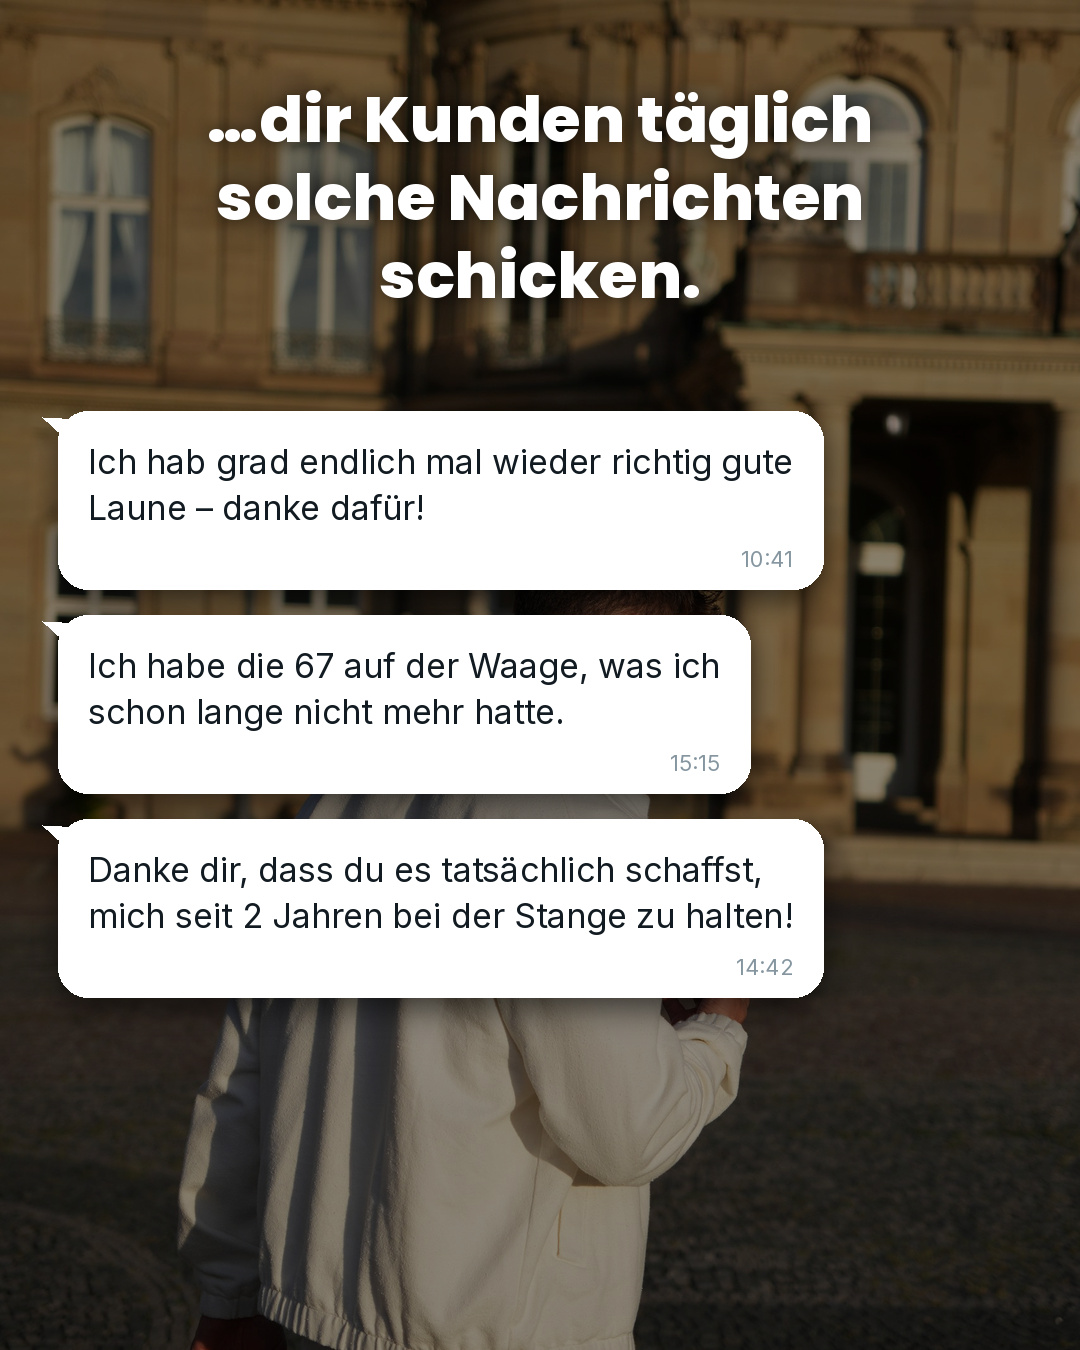
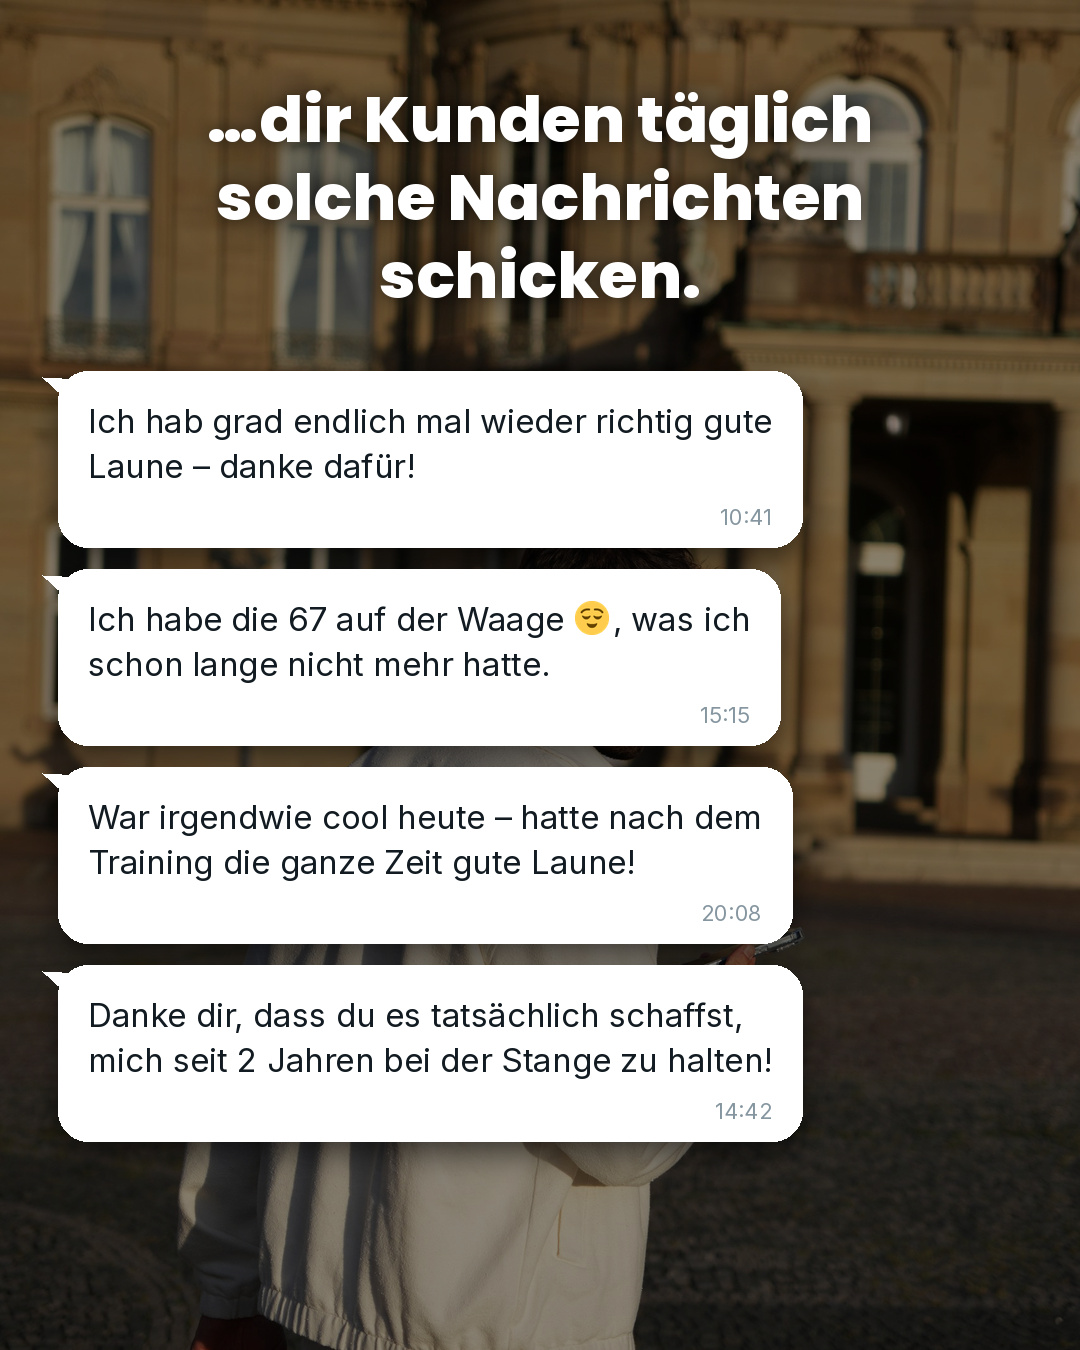
Cringe-Post: mehr Nachrichten, neue Nachricht mit Emoji
Slide 2 zeigt jetzt vier kurze Nachrichten statt drei, Slide 3 drei statt
einer. Neu dabei ist "Du hast es wirklich geschafft, mein Leben zu
veraendern! DANKE!" mit den beiden Emoji.

Emoji gehen jetzt in den Chat-Blasen: Inter hat keine Emoji-Glyphen und die
Color-Emoji-Fonts von Google sind COLRv1/SVG, die zeichnet Pillow nicht.
Deshalb liegen die gebrauchten Emoji als PNG in assets/emoji und werden
inline ins Bild kopiert. Herkunft und Lizenz in assets/emoji/HERKUNFT.md.

Claude-Session: https://claude.ai/code/session_01HQCAC1gXM5ymEH3L17w63v

Changed region(s): [[0.0306, 0.2489, 0.7639, 0.8711]]

diff --git a/posts/spezial/es-ist-cringe/bau.py b/posts/spezial/es-ist-cringe/bau.py
@@ -101,6 +101,70 @@ BLASE_TEXT = (17, 27, 33)
 BLASE_ZEIT = (134, 150, 160)
 
 
+EMOJI = {
+    "\U0001F64F\U0001F3FD": "1f64f-1f3fd",
+    "\u2764\uFE0F": "2764",
+    "\u2764": "2764",
+    "\U0001F60C": "1f60c",
+}
+EMOJI_DIR = os.path.join(os.path.dirname(FONT), "..", "emoji")
+
+
+def zerlegen(text):
+    """Zerlegt einen String in ('t', Text) und ('e', Emoji-Datei)."""
+    teile, puffer, i = [], "", 0
+    while i < len(text):
+        for zeichen in sorted(EMOJI, key=len, reverse=True):
+            if text.startswith(zeichen, i):
+                if puffer:
+                    teile.append(("t", puffer))
+                    puffer = ""
+                teile.append(("e", EMOJI[zeichen]))
+                i += len(zeichen)
+                break
+        else:
+            puffer += text[i]
+            i += 1
+    if puffer:
+        teile.append(("t", puffer))
+    return teile
+
+
+def _breite(d, text, f, groesse):
+    b = 0
+    for art, wert in zerlegen(text):
+        b += d.textlength(wert, font=f) if art == "t" else groesse * 1.18
+    return b
+
+
+def _zeichne(blatt, d, x, y, text, f, groesse, farbe):
+    for art, wert in zerlegen(text):
+        if art == "t":
+            d.text((x, y), wert, font=f, fill=farbe)
+            x += d.textlength(wert, font=f)
+        else:
+            kante = int(groesse * 1.05)
+            bild = Image.open(os.path.join(EMOJI_DIR, wert + ".png")).convert("RGBA")
+            bild = bild.resize((kante, kante), Image.LANCZOS)
+            blatt.paste(bild, (int(x + groesse * 0.06), int(y + groesse * 0.08)), bild)
+            x += groesse * 1.18
+    return x
+
+
+def umbrechen_emoji(d, text, f, max_breite, groesse):
+    zeilen, zeile = [], ""
+    for wort in text.split():
+        probe = f"{zeile} {wort}".strip()
+        if _breite(d, probe, f, groesse) <= max_breite or not zeile:
+            zeile = probe
+        else:
+            zeilen.append(zeile)
+            zeile = wort
+    if zeile:
+        zeilen.append(zeile)
+    return zeilen
+
+
 def blase(blatt, text, y, zeit="", x=58, groesse=34, max_breite=0.74, radius=30):
     """Zeichnet eine Chat-Blase wie in einem Messenger. Gibt die Unterkante zurueck."""
     d = ImageDraw.Draw(blatt)
@@ -109,9 +173,9 @@ def blase(blatt, text, y, zeit="", x=58, groesse=34, max_breite=0.74, radius=30)
     innen = 30
     zeilen = []
     for absatz in text.split("\n"):
-        zeilen += umbrechen(d, absatz, f, int(W * max_breite) - 2 * innen) if absatz.strip() else [""]
+        zeilen += umbrechen_emoji(d, absatz, f, int(W * max_breite) - 2 * innen, groesse) if absatz.strip() else [""]
     zh = int(groesse * 1.38)
-    breite = max(d.textlength(z, font=f) for z in zeilen) + 2 * innen
+    breite = max(_breite(d, z, f, groesse) for z in zeilen) + 2 * innen
     if zeit:
         breite = max(breite, d.textlength(zeit, font=fz) + 2 * innen + 40)
     breite = int(min(breite, W * max_breite))
@@ -127,7 +191,7 @@ def blase(blatt, text, y, zeit="", x=58, groesse=34, max_breite=0.74, radius=30)
     d.polygon([(x + 6, y + radius - 4), (x - 16, y + 6), (x + 22, y + 8)], fill=BLASE)
     ty = y + innen
     for zeile in zeilen:
-        d.text((x + innen, ty), zeile, font=f, fill=BLASE_TEXT)
+        _zeichne(blatt, d, x + innen, ty, zeile, f, groesse, BLASE_TEXT)
         ty += zh
     if zeit:
         zb = d.textlength(zeit, font=fz)
@@ -157,18 +221,20 @@ slide("DSC06534.jpeg", os.path.join(OUT, "01.jpg"),
 
 nachrichten("DSC06671.jpeg", os.path.join(OUT, "02.jpg"),
             "…dir Kunden täglich\nsolche Nachrichten\nschicken.",
-            [("Ich hab grad endlich mal wieder richtig gute Laune – danke dafür!", "10:41", 34),
-             ("Ich habe die 67 auf der Waage, was ich schon lange nicht mehr hatte.", "15:15", 34),
-             ("Danke dir, dass du es tatsächlich schaffst, mich seit 2 Jahren bei der Stange zu halten!", "14:42", 34)],
-            mitte=(0.5, 0.45), gr_oben=64, start=0.305)
+            [("Ich hab grad endlich mal wieder richtig gute Laune – danke dafür!", "10:41", 33),
+             ("Ich habe die 67 auf der Waage \U0001F60C, was ich schon lange nicht mehr hatte.", "15:15", 33),
+             ("War irgendwie cool heute – hatte nach dem Training die ganze Zeit gute Laune!", "20:08", 33),
+             ("Danke dir, dass du es tatsächlich schaffst, mich seit 2 Jahren bei der Stange zu halten!", "14:42", 33)],
+            mitte=(0.5, 0.45), gr_oben=64, start=0.275, abstand=22)
 
 nachrichten("laptop-handy-sprechen.jpeg", os.path.join(OUT, "03.jpg"),
             "…du immer wieder\nhörst: „Du hast mein\nLeben verändert.“",
-            [("Ich habe mit dir so viele kg abgenommen, aber viel viel mehr gewonnen. "
-              "Ich fühle mich besser, habe mehr Energie, bin nicht müde.\n\n"
-              "Du hast mir nicht nur gesagt, was ich essen soll – du hast es zu meinem "
-              "Lebensstil gemacht.", "20:08", 37)],
-            mitte=(0.5, 0.30), gr_oben=64, start=0.40)
+            [("Du hast es wirklich geschafft, mein Leben zu verändern! DANKE!\U0001F64F\U0001F3FD\u2764\uFE0F", "09:12", 33),
+             ("Ich habe mit dir so viele kg abgenommen, aber viel viel mehr gewonnen. "
+              "Ich fühle mich besser, habe mehr Energie, bin nicht müde. Du hast es zu "
+              "meinem Lebensstil gemacht.", "20:08", 33),
+             ("Dank dir habe ich meinen neuen Weg gefunden.", "15:15", 33)],
+            mitte=(0.5, 0.30), gr_oben=64, start=0.285, abstand=22)
 
 slide("DSC06621.jpeg", os.path.join(OUT, "04.jpg"),
       "…die Leute, die dich\nanfangs ausgelacht\nhaben, dich nach\ndeinem Rat fragen.",

diff --git a/posts/spezial/es-ist-cringe/post.md b/posts/spezial/es-ist-cringe/post.md
@@ -20,8 +20,8 @@ Inhalt kommt aus Aarons Notiz vom 03.11.
 | # | Text | Foto | Nachrichten |
 |---|---|---|---|
 | 1 | Ja, auf Instagram zu posten, als wäre man Influencer, ist cringe… / Aber nur solange, bis… | Von hinten am Brunnen (`DSC06534`) | — |
-| 2 | …dir Kunden täglich solche Nachrichten schicken. | Am Handy vor dem Schloss (`DSC06671`) | 3 kurze Blasen |
-| 3 | …du immer wieder hörst: „Du hast mein Leben verändert." | Sprachnachricht am Laptop (`laptop-handy-sprechen`) | 1 lange Blase |
+| 2 | …dir Kunden täglich solche Nachrichten schicken. | Am Handy vor dem Schloss (`DSC06671`) | 4 kurze Blasen |
+| 3 | …du immer wieder hörst: „Du hast mein Leben verändert." | Sprachnachricht am Laptop (`laptop-handy-sprechen`) | 3 Blasen |
 | 4 | …die Leute, die dich anfangs ausgelacht haben, dich nach deinem Rat fragen. | Vor dem Schloss, Blick in die Kamera (`DSC06621`) | — |
 | 5 | …die Leute sehen, wie glücklich dich das Ganze macht. | Am Laptop mit Handystativ, lachend (`laptop-stativ-lachen`) | — |
 | 6 | Den ersten Schritt zu machen wird immer unangenehm sein. / Aber wenn aus Anfangen lang genug Dranbleiben wird… | Durch die Arkaden auf die Kamera zu (`DSC06785`) | — |
@@ -36,12 +36,17 @@ man es in Canva zusammenbauen würde — kein Screenshot.
 | Slide | Text in der Blase |
 |---|---|
 | 2 | „Ich hab grad endlich mal wieder richtig gute Laune – danke dafür!" |
-| 2 | „Ich habe die 67 auf der Waage, was ich schon lange nicht mehr hatte." |
+| 2 | „Ich habe die 67 auf der Waage 😌, was ich schon lange nicht mehr hatte." |
+| 2 | „War irgendwie cool heute – hatte nach dem Training die ganze Zeit gute Laune!" |
 | 2 | „Danke dir, dass du es tatsächlich schaffst, mich seit 2 Jahren bei der Stange zu halten!" |
-| 3 | „Ich habe mit dir so viele kg abgenommen, aber viel viel mehr gewonnen. Ich fühle mich besser, habe mehr Energie, bin nicht müde. Du hast mir nicht nur gesagt, was ich essen soll – du hast es zu meinem Lebensstil gemacht." |
+| 3 | „Du hast es wirklich geschafft, mein Leben zu verändern! DANKE!🙏🏽❤" |
+| 3 | „Ich habe mit dir so viele kg abgenommen, aber viel viel mehr gewonnen. Ich fühle mich besser, habe mehr Energie, bin nicht müde. Du hast es zu meinem Lebensstil gemacht." |
+| 3 | „Dank dir habe ich meinen neuen Weg gefunden." |
 
-Die Uhrzeiten sind aus den Originalnachrichten übernommen. Das 😌 aus der
-Waage-Nachricht ist raus: die Schrift der Blasen hat keine Emoji-Glyphen.
+Die Uhrzeiten sind aus den Originalnachrichten übernommen. Die Emoji sind
+PNG-Grafiken aus `assets/emoji/`, weil die Blasen-Schrift (Inter) keine
+Emoji-Glyphen hat und Pillow die Color-Emoji-Fonts von Google nicht zeichnen
+kann. Herkunft und Lizenz: `assets/emoji/HERKUNFT.md`.
 
 Alle sechs Fotos aus dem eigenen Pool. Slide 3 zeigt bewusst eine
 Sprachnachricht — der Laptop-Bildschirm ist unscharf und nicht lesbar.
@@ -53,7 +58,9 @@ oben und unten abgeschnitten).
 - Die Original-Screenshots sind **nicht** verbaut. Die Nachrichten sind als
   Blasen nachgebaut, ohne Namen, Profilbilder und Chat-Kopf. Trotzdem sind es
   echte Sätze echter Kundinnen — zwei davon nennen Zahlen (67 kg, 2 Jahre).
-  Wenn eine der beiden das nicht öffentlich sehen will, raus damit.
+  Wenn eine davon das nicht öffentlich sehen will, raus damit.
+- Die Emoji-Grafiken stehen unter CC-BY 4.0 (Twemoji). Für einen Instagram-Post
+  unkritisch, formal verlangt die Lizenz aber eine Nennung.
 - Die Caption endet nicht auf den festen PLAN-CTA, weil der Post persönlich
   erzählt und nicht verkauft. Wenn der CTA trotzdem drunter soll, drankleben.
 

diff --git a/assets/emoji/HERKUNFT.md b/assets/emoji/HERKUNFT.md
@@ -1,0 +1,17 @@
+# Emoji-Grafiken
+
+Für die Chat-Blasen in `posts/spezial/es-ist-cringe/` gebraucht: die Schrift
+der Blasen (Inter) hat keine Emoji-Glyphen, und die Color-Emoji-Fonts von
+Google sind COLRv1/SVG — die kann Pillow nicht zeichnen. Deshalb liegen die
+paar gebrauchten Emoji hier als PNG und werden ins Bild kopiert.
+
+**Quelle:** Twemoji 15.1.0 (`jdecked/twemoji`), 72 × 72 px.
+**Lizenz der Grafiken:** CC-BY 4.0. Für einen Instagram-Post ist das
+unkritisch, formal verlangt CC-BY aber eine Nennung. Wenn das stören sollte:
+die Emoji weglassen oder durch eigene ersetzen.
+
+| Datei | Emoji |
+|---|---|
+| `1f64f-1f3fd.png` | 🙏🏽 |
+| `2764.png` | ❤ |
+| `1f60c.png` | 😌 |
